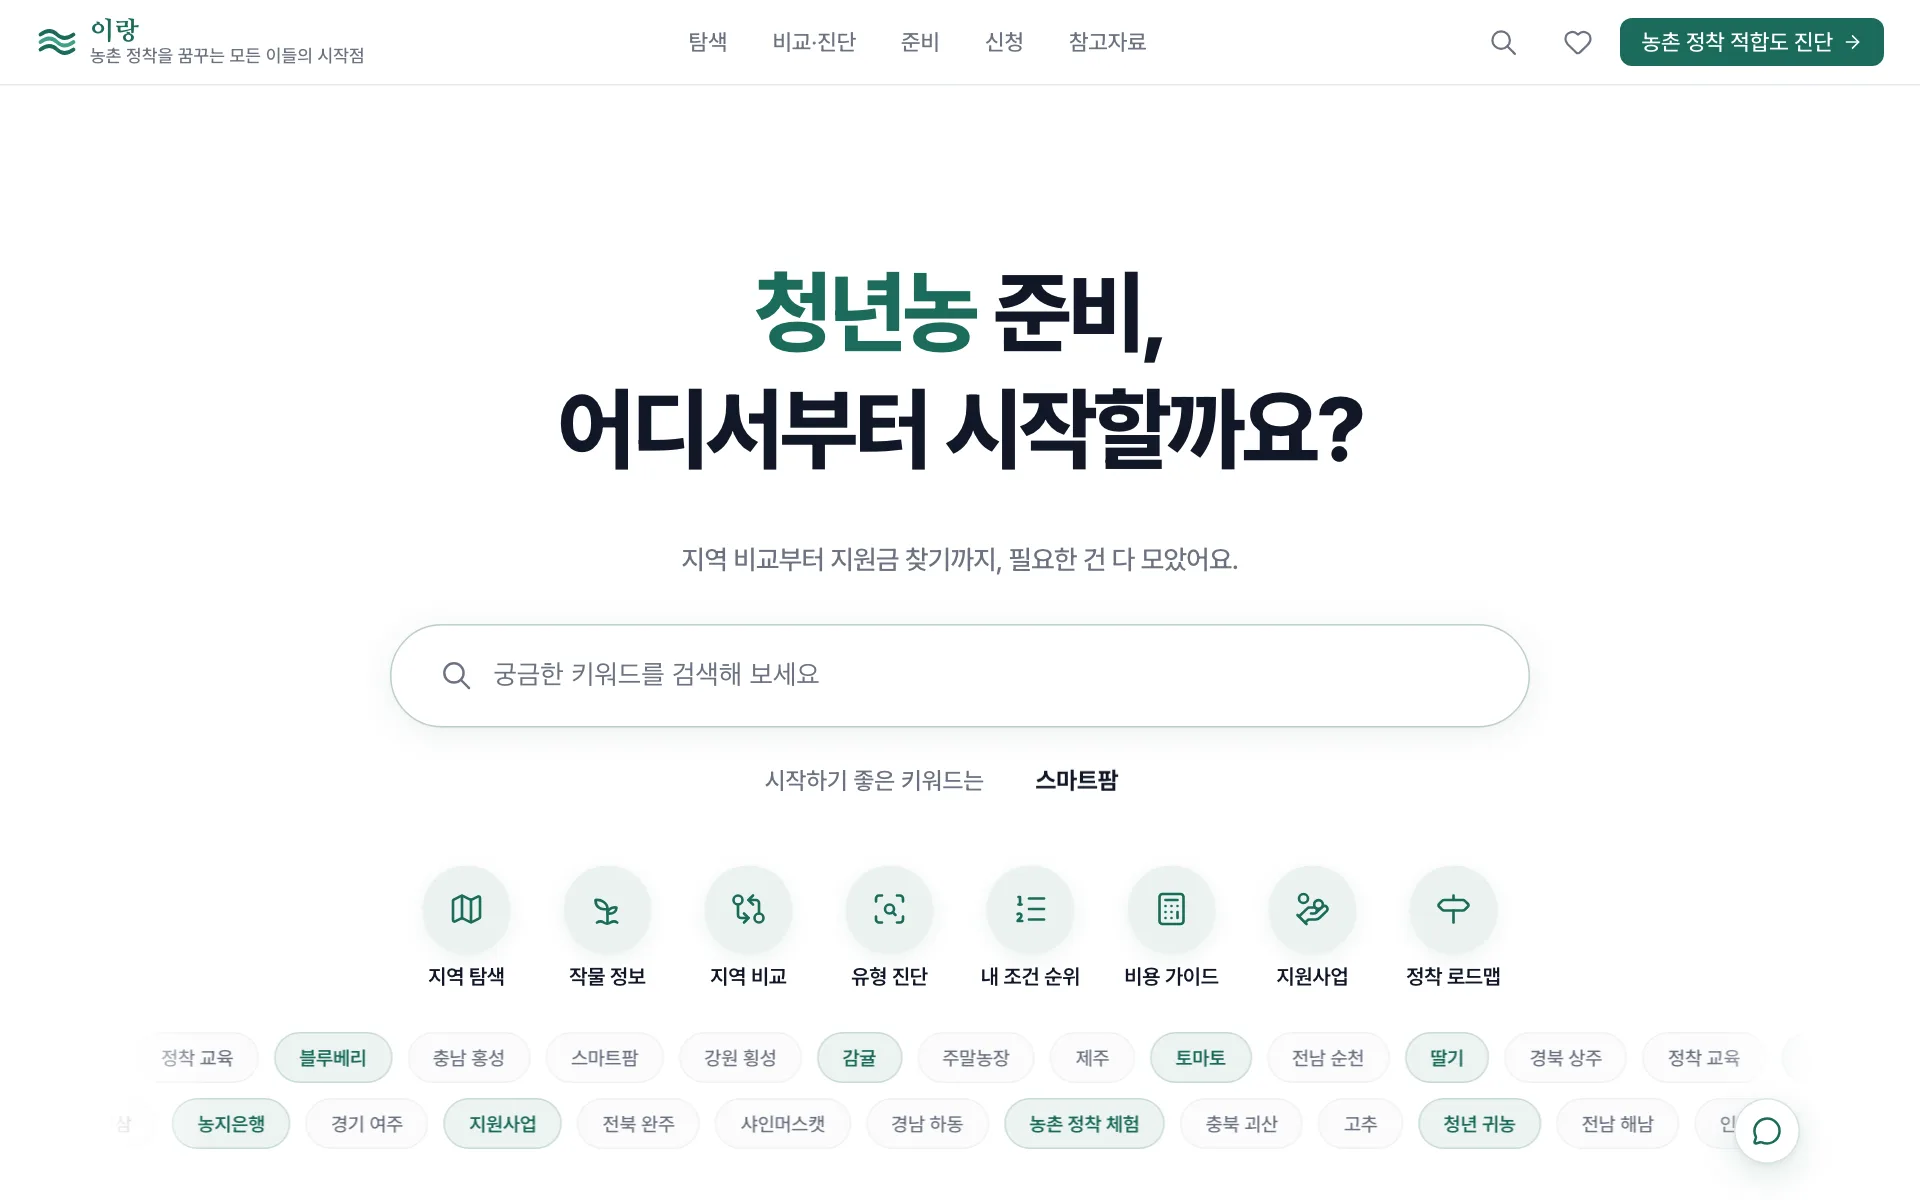
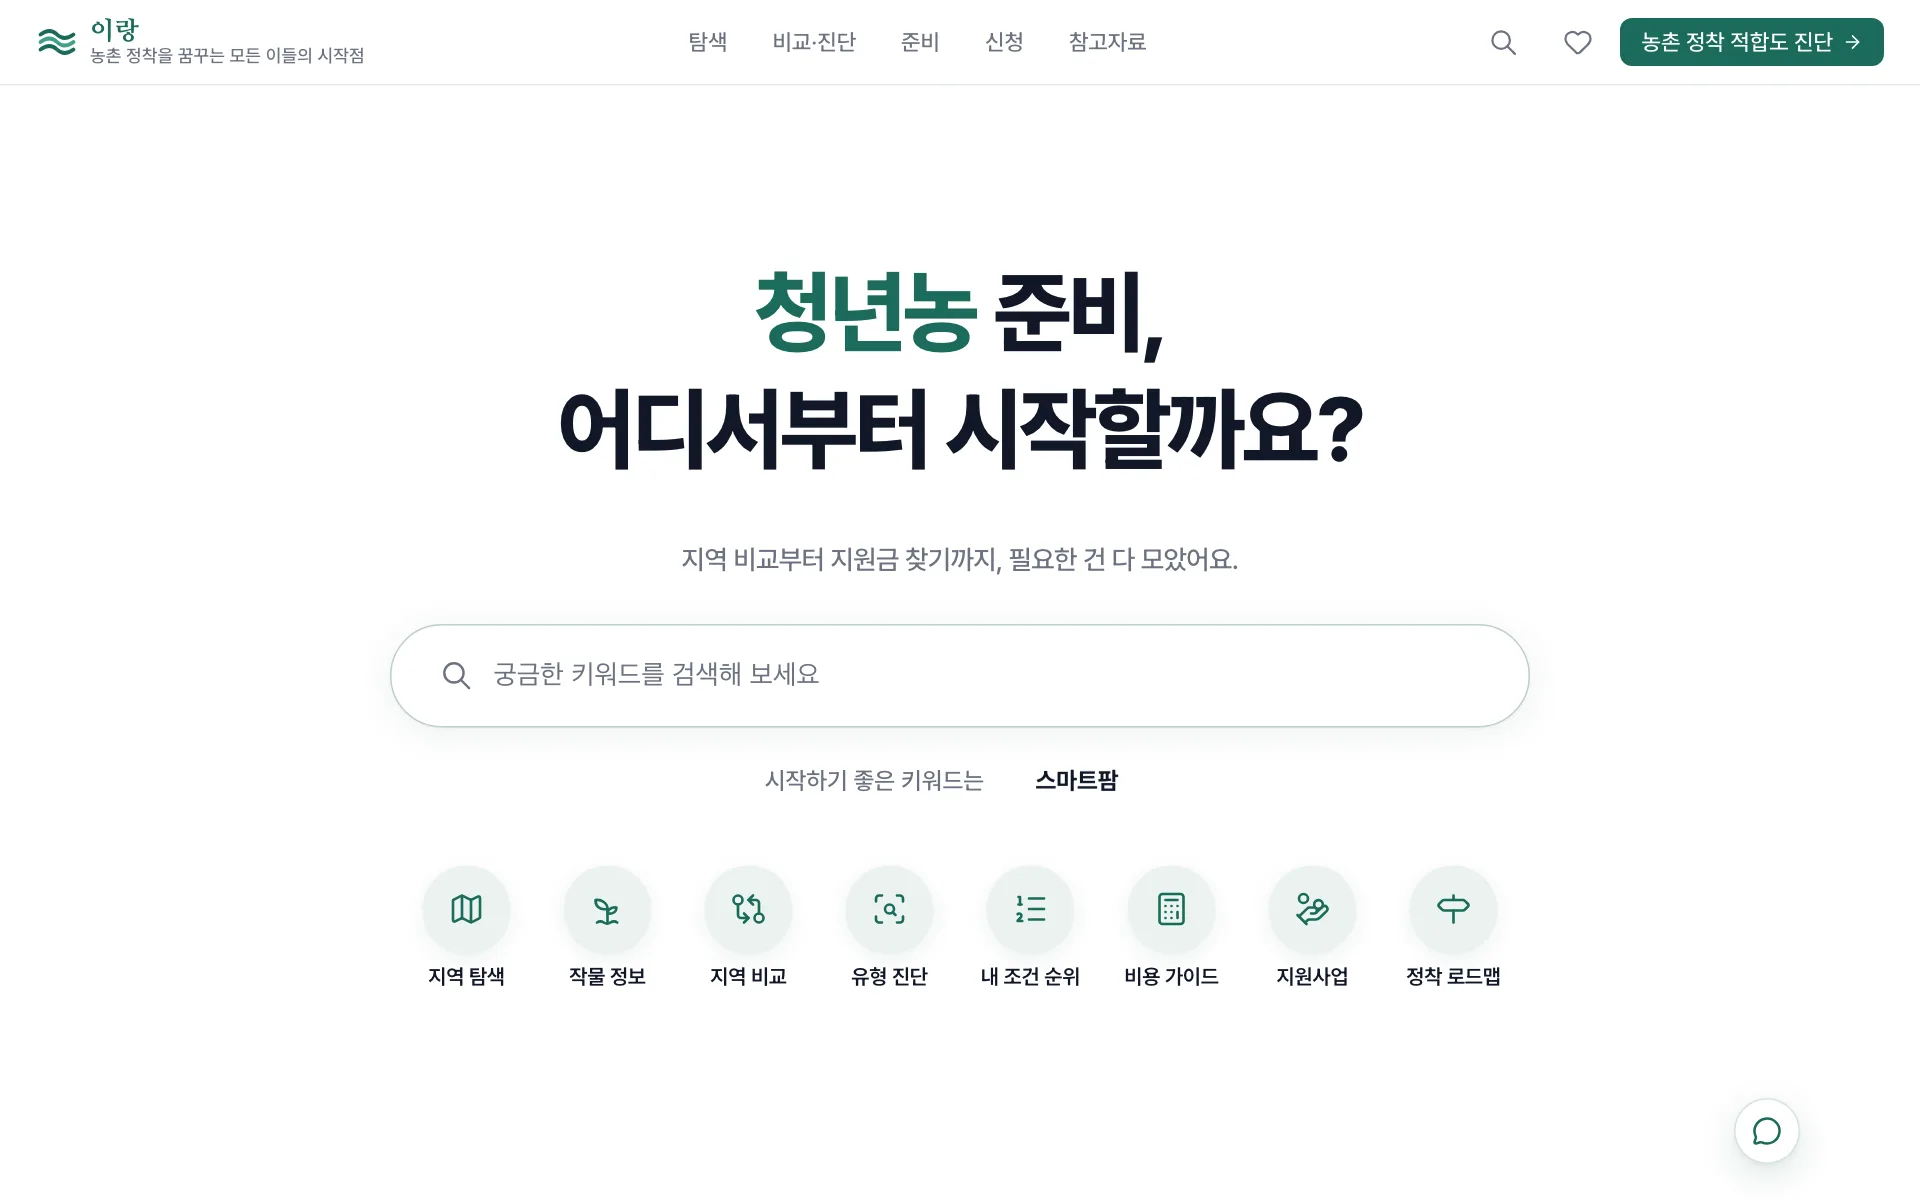
feat(landing): 히어로 자동 흐름 키워드 마퀴 제거 (회장 9/7) + 히어로 하단 여백 정리
- page.tsx 마퀴 2줄(데이터·마크업)·page.module.css 마퀴 규칙 전부 삭제
- 데스크탑 히어로 padding-bottom 48px(마퀴 margin-top:auto 가 맡던 여백), 모바일은 기존 64px 유지
- 히어로 높이 375: 577→477 / 768: 627→549 / 1280: 693→615. SSR hero_quick 8·h1 1 유지
- 업데이트 소식 9/7 항목 문구·이후 프레임 갱신

diff --git a/src/app/page.module.css b/src/app/page.module.css
@@ -62,6 +62,11 @@
   .heroSection { padding: 72px 40px 0; }
 }
 
+/* 데스크탑 하단 여백 — 마퀴(margin-top:auto) 제거 후 퀵메뉴 아래 (9/7) */
+@media (min-width: 768px) {
+  .heroSection { padding-bottom: 48px; }
+}
+
 /* 모바일은 ScrollIndicator 공간 확보 위해 padding-bottom 추가 */
 @media (max-width: 767px) {
   .heroSection { padding-bottom: 64px; }
@@ -241,97 +246,6 @@
 
 @media (prefers-reduced-motion: reduce) {
   .heroQuick { animation: none; }
-}
-
-/* ── 마퀴 띠 (2줄 엇갈림) ── */
-.heroMarquee {
-  width: 100%;
-  overflow: hidden;
-  margin-top: auto;
-  padding: 16px 0;
-  display: flex;
-  flex-direction: column;
-  gap: 8px;
-  mask-image: linear-gradient(
-    to right,
-    transparent 0%,
-    #000 6%,
-    #000 94%,
-    transparent 100%
-  );
-  -webkit-mask-image: linear-gradient(
-    to right,
-    transparent 0%,
-    #000 6%,
-    #000 94%,
-    transparent 100%
-  );
-  animation: heroFadeUp 0.7s cubic-bezier(.16, 1, .3, 1) 1.6s both;
-}
-
-@media (min-width: 640px) {
-  .heroMarquee { padding: 24px 0; gap: 10px; }
-}
-
-@media (prefers-reduced-motion: reduce) {
-  .heroMarquee { animation: none; }
-}
-
-.heroMarqueeTrack {
-  display: flex;
-  gap: 10px;
-  width: max-content;
-  animation: marqueeScroll 35s linear infinite;
-}
-
-.heroMarqueeTrackReverse {
-  animation: marqueeScrollReverse 40s linear infinite;
-}
-
-@keyframes marqueeScroll {
-  from { transform: translateX(0); }
-  to   { transform: translateX(-50%); }
-}
-
-@keyframes marqueeScrollReverse {
-  from { transform: translateX(-50%); }
-  to   { transform: translateX(0); }
-}
-
-@media (prefers-reduced-motion: reduce) {
-  .heroMarqueeTrack,
-  .heroMarqueeTrackReverse { animation: none; }
-}
-
-.heroMarqueeItem {
-  display: inline-flex;
-  align-items: center;
-  gap: 6px;
-  height: 30px;
-  padding: 0 13px;
-  border-radius: 100px;
-  background: color-mix(in srgb, var(--muted, #f3f4f6) 70%, transparent);
-  white-space: nowrap;
-  font-size: 0.75rem;
-  font-weight: 500;
-  color: var(--muted-foreground, #6b7280);
-  flex-shrink: 0;
-  border: 1px solid color-mix(in srgb, var(--border, #e5e7eb) 50%, transparent);
-}
-
-.heroMarqueeAccent {
-  background: color-mix(in srgb, var(--primary, #1b6b5a) 8%, transparent);
-  color: var(--primary, #1b6b5a);
-  border-color: color-mix(in srgb, var(--primary, #1b6b5a) 18%, transparent);
-  font-weight: 600;
-}
-
-@media (min-width: 640px) {
-  .heroMarqueeItem {
-    height: 34px;
-    padding: 0 16px;
-    font-size: 0.8125rem;
-  }
 }
 
 /* ══════════════════════════════════════════

diff --git a/src/app/page.tsx b/src/app/page.tsx
@@ -33,23 +33,6 @@ import { PROGRAMS } from "@/lib/data/programs";
 import { SurveyCta } from "./survey-cta";
 import s from "./page.module.css";
 
-/* ── 마퀴 키워드 (2줄 엇갈림) ── */
-interface MarqueeChip { label: string; accent?: boolean }
-
-const marqueeRow1: MarqueeChip[] = [
-  { label: "전남 순천" }, { label: "딸기", accent: true }, { label: "경북 상주" },
-  { label: "정착 교육" }, { label: "블루베리", accent: true }, { label: "충남 홍성" },
-  { label: "스마트팜" }, { label: "강원 횡성" }, { label: "감귤", accent: true },
-  { label: "주말농장" }, { label: "제주" }, { label: "토마토", accent: true },
-];
-
-const marqueeRow2: MarqueeChip[] = [
-  { label: "지원사업", accent: true }, { label: "전북 완주" }, { label: "샤인머스캣" },
-  { label: "경남 하동" }, { label: "농촌 정착 체험", accent: true }, { label: "충북 괴산" },
-  { label: "고추" }, { label: "청년 귀농", accent: true }, { label: "전남 해남" },
-  { label: "인삼" }, { label: "농지은행", accent: true }, { label: "경기 여주" },
-];
-
 /* ────────────────────────────────────────────
    Page — 섹션 순서 (withgo 레퍼런스 기반):
    히어로(검색) → 인터뷰(사회적 증거) → 왜 농촌 정착(동기)
@@ -155,24 +138,6 @@ export default function HomePage() {
         {/* 아이콘 퀵메뉴 8종 — GNB 여정 순 (9/7 회장 결재: 바로 시작하기 섹션 대체) */}
         <div className={s.heroQuick}>
           <HeroQuickMenu />
-        </div>
-
-        {/* 마퀴 띠 — 2줄 엇갈림 */}
-        <div className={s.heroMarquee} aria-hidden="true">
-          <div className={s.heroMarqueeTrack}>
-            {[...marqueeRow1, ...marqueeRow1].map((item, i) => (
-              <span key={i} className={`${s.heroMarqueeItem}${item.accent ? ` ${s.heroMarqueeAccent}` : ""}`}>
-                {item.label}
-              </span>
-            ))}
-          </div>
-          <div className={`${s.heroMarqueeTrack} ${s.heroMarqueeTrackReverse}`}>
-            {[...marqueeRow2, ...marqueeRow2].map((item, i) => (
-              <span key={i} className={`${s.heroMarqueeItem}${item.accent ? ` ${s.heroMarqueeAccent}` : ""}`}>
-                {item.label}
-              </span>
-            ))}
-          </div>
         </div>
 
         {/* 모바일 전용 스크롤 다운 indicator — sequential 2 chevron + scroll fade */}

diff --git a/src/lib/data/updates.ts b/src/lib/data/updates.ts
@@ -93,14 +93,14 @@ export const UPDATES: UpdateItem[] = [
     title: "홈 검색창 아래에 바로 가기 아이콘이 생겼어요",
     short: "홈에 바로 가기 아이콘 8개",
     summary:
-      "지역 탐색·작물 정보·지역 비교·유형 진단·내 조건 순위·비용 가이드·지원사업·정착 로드맵, 여덟 가지로 가는 아이콘을 검색창 바로 아래에 두었어요. 준비하는 순서대로 늘어놓아 어디부터 볼지 고민이 줄고, 모바일에서는 옆으로 넘겨 볼 수 있어요. 대신 인터뷰 아래에 있던 '바로 시작하기' 묶음(진단 카드·시·군·구 검색·조건 카드)은 뺐어요. 검색창에 '가평'처럼 시·군·구 이름을 적으면 이미 그 지역으로 바로 가거든요.",
+      "지역 탐색·작물 정보·지역 비교·유형 진단·내 조건 순위·비용 가이드·지원사업·정착 로드맵, 여덟 가지로 가는 아이콘을 검색창 바로 아래에 두었어요. 준비하는 순서대로 늘어놓아 어디부터 볼지 고민이 줄고, 모바일에서는 옆으로 넘겨 볼 수 있어요. 대신 인터뷰 아래에 있던 '바로 시작하기' 묶음(진단 카드·시·군·구 검색·조건 카드)과 검색창 밑에서 저절로 흐르던 키워드 띠는 뺐어요. 검색창에 '가평'처럼 시·군·구 이름을 적으면 이미 그 지역으로 바로 가거든요.",
     href: "/",
     tag: "개선",
     media: {
       before: "/updates/hero-quick-before.webp",
       after: "/updates/hero-quick-after.webp",
       frame: "desktop",
-      caption: "이전엔 검색창과 인기 키워드까지였고, 지금은 그 아래 여덟 개 바로 가기 아이콘이 한 줄로 보여요",
+      caption: "이전엔 검색창 아래로 키워드 띠가 흘렀고, 지금은 여덟 개 바로 가기 아이콘이 한 줄로 보여요",
     },
   },
   {
